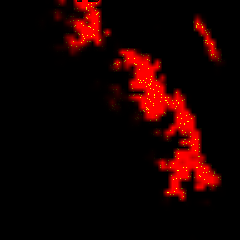
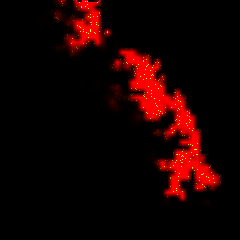
small version

diff --git a/README.md b/README.md
@@ -1,3 +1,5 @@
-- run `python3 make_map.py` to make the random map the `.slim` script uses
+- run SLiM in the `small/` directory to see the simulation on a smaller chunk of the landscape
+
+- run `Rscript make_maps.R` to make the maps that SLiM uses
 
 - `.tif` files: Yi-Ming says (3 June 2021) " The file names contain the name of the time period and the chunk of time. For example, BA13_15 means BA period that is from 15 kyr to 13 kyr."
